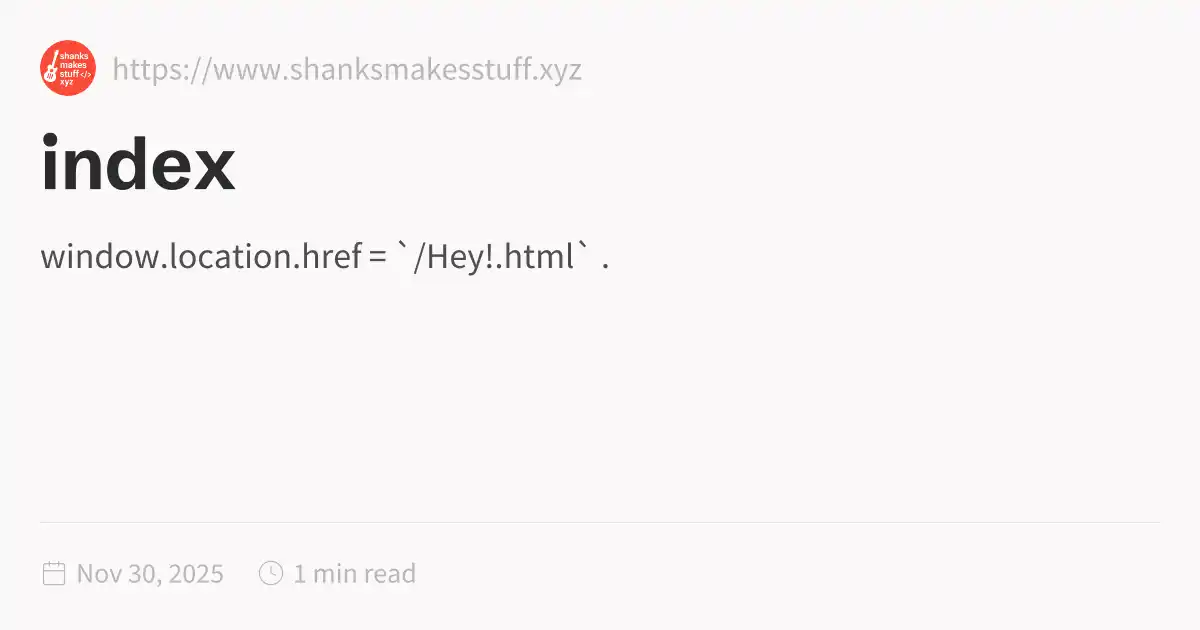
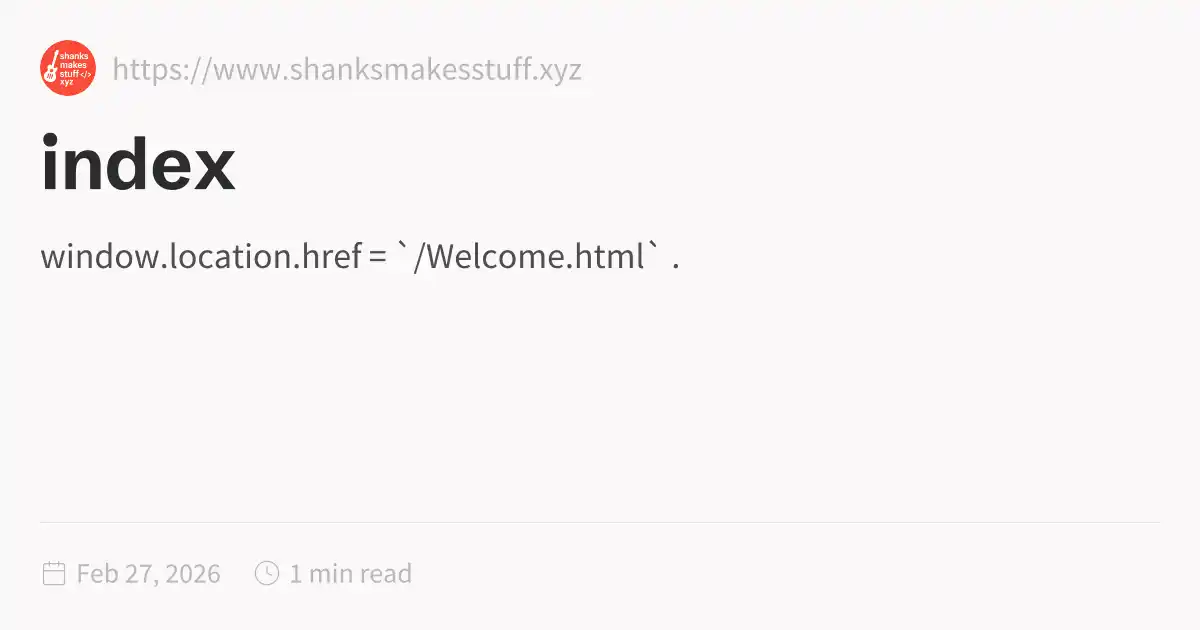
Auto-published: 2026-02-27T07:29:59.178Z

Changed region(s): [[0.3392, 0.3921, 0.555, 0.4524], [0.2158, 0.8746, 0.37, 0.9349], [0.0617, 0.8746, 0.185, 0.9349]]

diff --git a/index.html b/index.html
@@ -1,5 +1,5 @@
 <!DOCTYPE html>
-<html lang="en"><head><title>index</title><meta charset="utf-8"/><link rel="preconnect" href="https://fonts.googleapis.com"/><link rel="preconnect" href="https://fonts.gstatic.com"/><link rel="stylesheet" href="https://fonts.googleapis.com/css2?family=Schibsted Grotesk:wght@400;700&amp;family=Source Sans Pro:ital,wght@0,400;0,600;1,400;1,600&amp;family=IBM Plex Mono:wght@400;600&amp;display=swap"/><link rel="preconnect" href="https://cdnjs.cloudflare.com" crossorigin="anonymous"/><meta name="viewport" content="width=device-width, initial-scale=1.0"/><meta name="og:site_name" content="ShanksMakesStuff"/><meta property="og:title" content="index"/><meta property="og:type" content="website"/><meta name="twitter:card" content="summary_large_image"/><meta name="twitter:title" content="index"/><meta name="twitter:description" content="window.location.href = `/Hey!.html` ."/><meta property="og:description" content="window.location.href = `/Hey!.html` ."/><meta property="og:image:alt" content="window.location.href = `/Hey!.html` ."/><meta property="twitter:domain" content="https://www.shanksmakesstuff.xyz"/><meta property="og:url" content="https://https//www.shanksmakesstuff.xyz/index"/><meta property="twitter:url" content="https://https//www.shanksmakesstuff.xyz/index"/><link rel="icon" href="./static/icon.png"/><meta name="description" content="window.location.href = `/Hey!.html` ."/><meta name="generator" content="Quartz"/><link href="./index.css" rel="stylesheet" type="text/css" spa-preserve/><style>.expand-button {
+<html lang="en"><head><title>index</title><meta charset="utf-8"/><link rel="preconnect" href="https://fonts.googleapis.com"/><link rel="preconnect" href="https://fonts.gstatic.com"/><link rel="stylesheet" href="https://fonts.googleapis.com/css2?family=Schibsted Grotesk:wght@400;700&amp;family=Source Sans Pro:ital,wght@0,400;0,600;1,400;1,600&amp;family=IBM Plex Mono:wght@400;600&amp;display=swap"/><link rel="preconnect" href="https://cdnjs.cloudflare.com" crossorigin="anonymous"/><meta name="viewport" content="width=device-width, initial-scale=1.0"/><meta name="og:site_name" content="ShanksMakesStuff"/><meta property="og:title" content="index"/><meta property="og:type" content="website"/><meta name="twitter:card" content="summary_large_image"/><meta name="twitter:title" content="index"/><meta name="twitter:description" content="window.location.href = `/Welcome.html` ."/><meta property="og:description" content="window.location.href = `/Welcome.html` ."/><meta property="og:image:alt" content="window.location.href = `/Welcome.html` ."/><meta property="twitter:domain" content="https://www.shanksmakesstuff.xyz"/><meta property="og:url" content="https://https//www.shanksmakesstuff.xyz/index"/><meta property="twitter:url" content="https://https//www.shanksmakesstuff.xyz/index"/><link rel="icon" href="./static/icon.png"/><meta name="description" content="window.location.href = `/Welcome.html` ."/><meta name="generator" content="Quartz"/><link href="./index.css" rel="stylesheet" type="text/css" spa-preserve/><style>.expand-button {
   position: absolute;
   display: flex;
   float: right;
@@ -116,9 +116,9 @@ pre:hover > .expand-button {
   padding: 0 12px;
   font-size: 14px;
 }
[2 lines of base64/hex data omitted]
 	<script> 
-		window.location.href = `/Hey!.html` 
+		window.location.href = `/Welcome.html` 
 	</script> 
 </article><hr/><div class="page-footer"></div></div><div class="right sidebar"></div><footer class><p>Created with <a href="https://quartz.jzhao.xyz/">Quartz v4.5.1</a> © 2026</p><ul><li><a href="www.github.com/ShashankRaoCoding/">GitHub</a></li></ul></footer></div></div></body><script type="application/javascript">function n(){let t=this.parentElement;t.classList.toggle("is-collapsed");let e=t.getElementsByClassName("callout-content")[0];if(!e)return;let l=t.classList.contains("is-collapsed");e.style.gridTemplateRows=l?"0fr":"1fr"}function c(){let t=document.getElementsByClassName("callout is-collapsible");for(let e of t){let l=e.getElementsByClassName("callout-title")[0],s=e.getElementsByClassName("callout-content")[0];if(!l||!s)continue;l.addEventListener("click",n),window.addCleanup(()=>l.removeEventListener("click",n));let o=e.classList.contains("is-collapsed");s.style.gridTemplateRows=o?"0fr":"1fr"}}document.addEventListener("nav",c);
 </script><script type="module">function f(i,e){if(!i)return;function r(o){o.target===this&&(o.preventDefault(),o.stopPropagation(),e())}function t(o){o.key.startsWith("Esc")&&(o.preventDefault(),e())}i?.addEventListener("click",r),window.addCleanup(()=>i?.removeEventListener("click",r)),document.addEventListener("keydown",t),window.addCleanup(()=>document.removeEventListener("keydown",t))}function y(i){for(;i.firstChild;)i.removeChild(i.firstChild)}var h=class{constructor(e,r){this.container=e;this.content=r;this.setupEventListeners(),this.setupNavigationControls(),this.resetTransform()}isDragging=!1;startPan={x:0,y:0};currentPan={x:0,y:0};scale=1;MIN_SCALE=.5;MAX_SCALE=3;cleanups=[];setupEventListeners(){let e=this.onMouseDown.bind(this),r=this.onMouseMove.bind(this),t=this.onMouseUp.bind(this),o=this.resetTransform.bind(this);this.container.addEventListener("mousedown",e),document.addEventListener("mousemove",r),document.addEventListener("mouseup",t),window.addEventListener("resize",o),this.cleanups.push(()=>this.container.removeEventListener("mousedown",e),()=>document.removeEventListener("mousemove",r),()=>document.removeEventListener("mouseup",t),()=>window.removeEventListener("resize",o))}cleanup(){for(let e of this.cleanups)e()}setupNavigationControls(){let e=document.createElement("div");e.className="mermaid-controls";let r=this.createButton("+",()=>this.zoom(.1)),t=this.createButton("-",()=>this.zoom(-.1)),o=this.createButton("Reset",()=>this.resetTransform());e.appendChild(t),e.appendChild(o),e.appendChild(r),this.container.appendChild(e)}createButton(e,r){let t=document.createElement("button");return t.textContent=e,t.className="mermaid-control-button",t.addEventListener("click",r),window.addCleanup(()=>t.removeEventListener("click",r)),t}onMouseDown(e){e.button===0&&(this.isDragging=!0,this.startPan={x:e.clientX-this.currentPan.x,y:e.clientY-this.currentPan.y},this.container.style.cursor="grabbing")}onMouseMove(e){this.isDragging&&(e.preventDefault(),this.currentPan={x:e.clientX-this.startPan.x,y:e.clientY-this.startPan.y},this.updateTransform())}onMouseUp(){this.isDragging=!1,this.container.style.cursor="grab"}zoom(e){let r=Math.min(Math.max(this.scale+e,this.MIN_SCALE),this.MAX_SCALE),t=this.content.getBoundingClientRect(),o=t.width/2,n=t.height/2,c=r-this.scale;this.currentPan.x-=o*c,this.currentPan.y-=n*c,this.scale=r,this.updateTransform()}updateTransform(){this.content.style.transform=`translate(${this.currentPan.x}px, ${this.currentPan.y}px) scale(${this.scale})`}resetTransform(){this.scale=1;let e=this.content.querySelector("svg");this.currentPan={x:e.getBoundingClientRect().width/2,y:e.getBoundingClientRect().height/2},this.updateTransform()}},C=["--secondary","--tertiary","--gray","--light","--lightgray","--highlight","--dark","--darkgray","--codeFont"],E;document.addEventListener("nav",async()=>{let e=document.querySelector(".center").querySelectorAll("code.mermaid");if(e.length===0)return;E||=await import("https://cdnjs.cloudflare.com/ajax/libs/mermaid/11.4.0/mermaid.esm.min.mjs");let r=E.default,t=new WeakMap;for(let n of e)t.set(n,n.innerText);async function o(){for(let s of e){s.removeAttribute("data-processed");let a=t.get(s);a&&(s.innerHTML=a)}let n=C.reduce((s,a)=>(s[a]=window.getComputedStyle(document.documentElement).getPropertyValue(a),s),{}),c=document.documentElement.getAttribute("saved-theme")==="dark";r.initialize({startOnLoad:!1,securityLevel:"loose",theme:c?"dark":"base",themeVariables:{fontFamily:n["--codeFont"],primaryColor:n["--light"],primaryTextColor:n["--darkgray"],primaryBorderColor:n["--tertiary"],lineColor:n["--darkgray"],secondaryColor:n["--secondary"],tertiaryColor:n["--tertiary"],clusterBkg:n["--light"],edgeLabelBackground:n["--highlight"]}}),await r.run({nodes:e})}await o(),document.addEventListener("themechange",o),window.addCleanup(()=>document.removeEventListener("themechange",o));for(let n=0;n<e.length;n++){let v=function(){let g=l.querySelector("#mermaid-space"),m=l.querySelector(".mermaid-content");if(!m)return;y(m);let w=c.querySelector("svg").cloneNode(!0);m.appendChild(w),l.classList.add("active"),g.style.cursor="grab",u=new h(g,m)},M=function(){l.classList.remove("active"),u?.cleanup(),u=null},c=e[n],s=c.parentElement,a=s.querySelector(".clipboard-button"),d=s.querySelector(".expand-button"),p=window.getComputedStyle(a),L=a.offsetWidth+parseFloat(p.marginLeft||"0")+parseFloat(p.marginRight||"0");d.style.right=`calc(${L}px + 0.3rem)`,s.prepend(d);let l=s.querySelector("#mermaid-container");if(!l)return;let u=null;d.addEventListener("click",v),f(l,M),window.addCleanup(()=>{u?.cleanup(),d.removeEventListener("click",v)})}});
